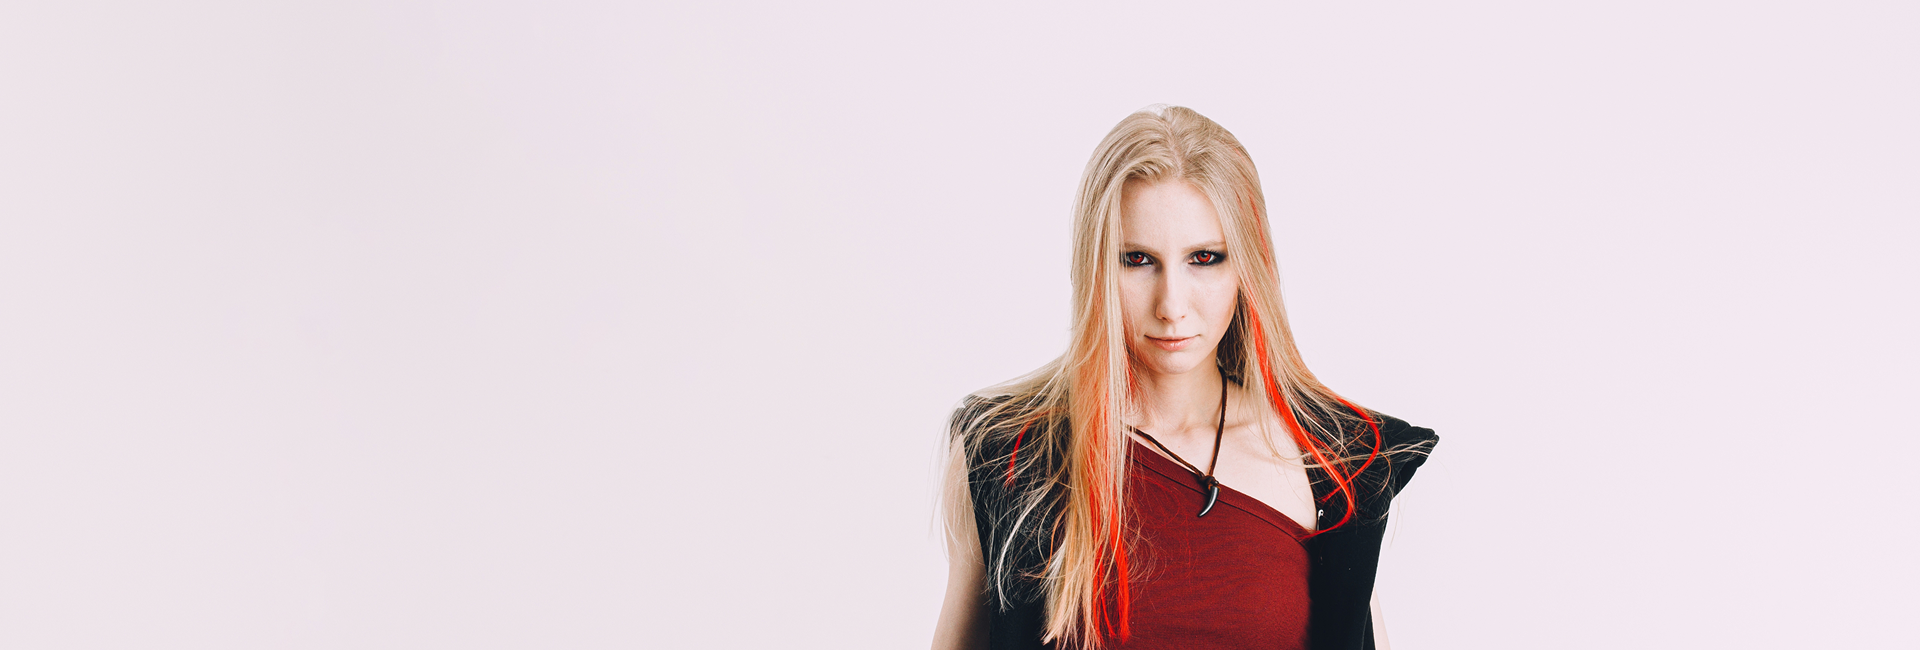
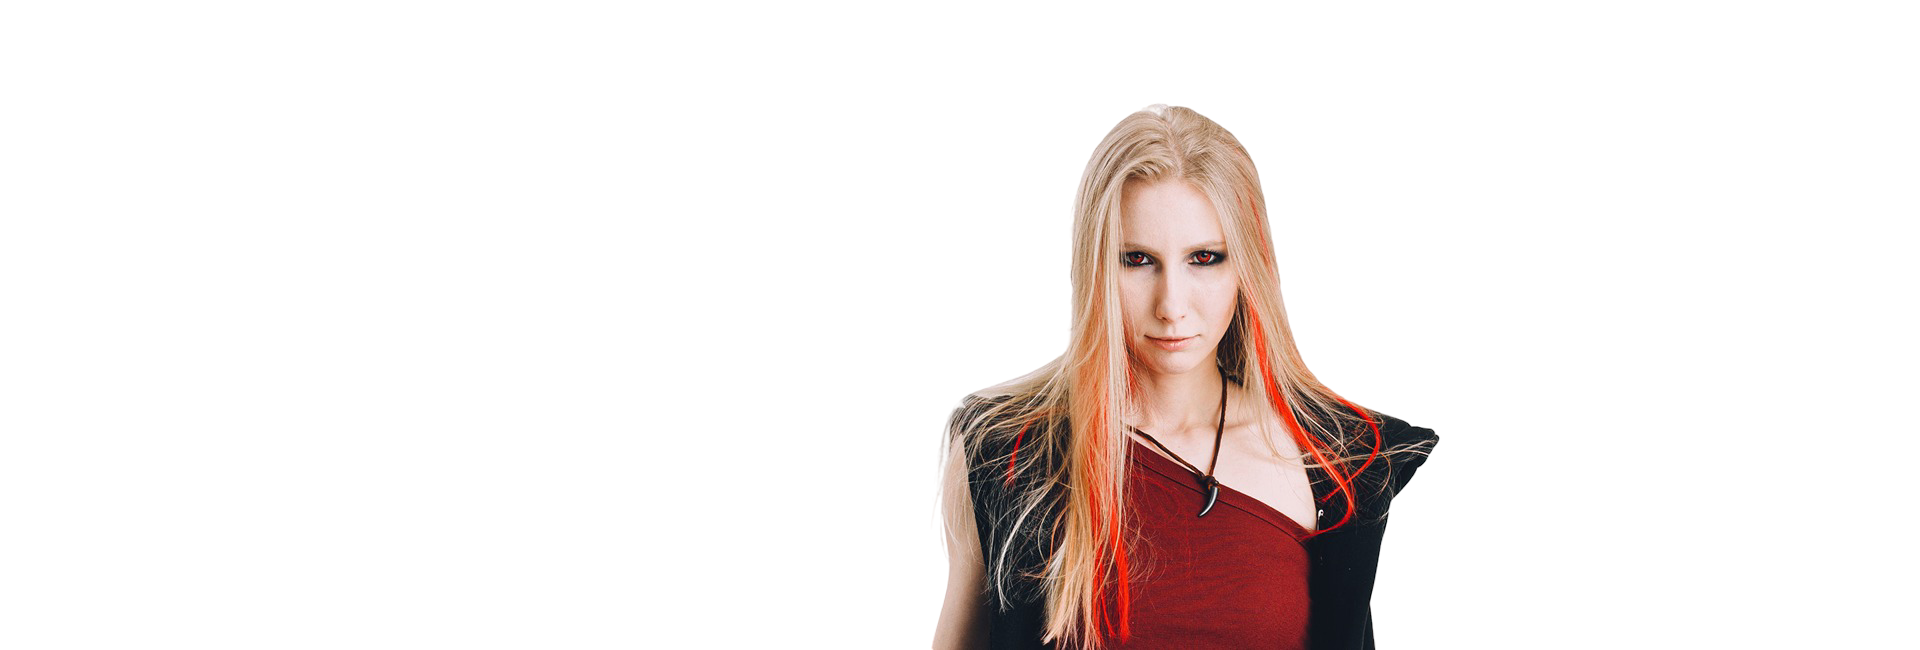
release-2: header fix

diff --git a/assets/scss/components/header.scss b/assets/scss/components/header.scss
@@ -7,39 +7,30 @@
   width: 100%;
   padding-block: 16px; // от 24 к 16 (на мобиле)
 
-  //background-color: rgba(233, 223, 229, 0.5);
-  //background-color: rgba(241, 231, 239, 0.5);
-  //background-color: rgb(241, 231, 239);
-  //background-color: var(--color-rose);
-  //background-image: linear-gradient(to right, var(--color-rose), rgb(241, 231, 239));
-  //background-color: transparent;
-  //transition: background-color var(--transition-duration-longer);
+  background-color: var(--color-rose);
+  //background-image: linear-gradient(to right, rgb(233, 224, 230), rgb(241, 231, 239));
 
-  animation-name: scrolling-header;
-  animation-fill-mode: both;
-  animation-timeline: scroll();
-  animation-range: 0 100px;
-  //animation-range: 0 180px;
+
+  //animation-name: scrolling-header;
+  //animation-fill-mode: both;
+  //animation-timeline: scroll();
+  //animation-range: 0 100px;
 
   border-bottom: 1px solid transparent;
 
   height: 93px;
   
-  @keyframes scrolling-header {
-    to {
-      background-color: var(--color-rose);
-      //background-color: rgb(241, 231, 239);
-    }
-  }
+  //@keyframes scrolling-header {
+  //  to {
+  //    background-color: var(--color-rose);
+  //  }
+  //}
 
   @include tablet {
     padding-block: 10px;
     height: 66px;
+    //background-image: linear-gradient(to right, rgb(235, 226, 231), rgb(241, 231, 239));
   }
-
-  //@include mobile-s {
-  //  animation-range: 0 100px;
-  //}
 
   &__inner {
     display: flex;

diff --git a/assets/scss/components/hero.scss b/assets/scss/components/hero.scss
@@ -18,7 +18,7 @@
 
   @include mobile-s {
       height: 100vw;
-      margin-top: -66px;
+      margin-top: -50px;
   }
 
   &__inner {
